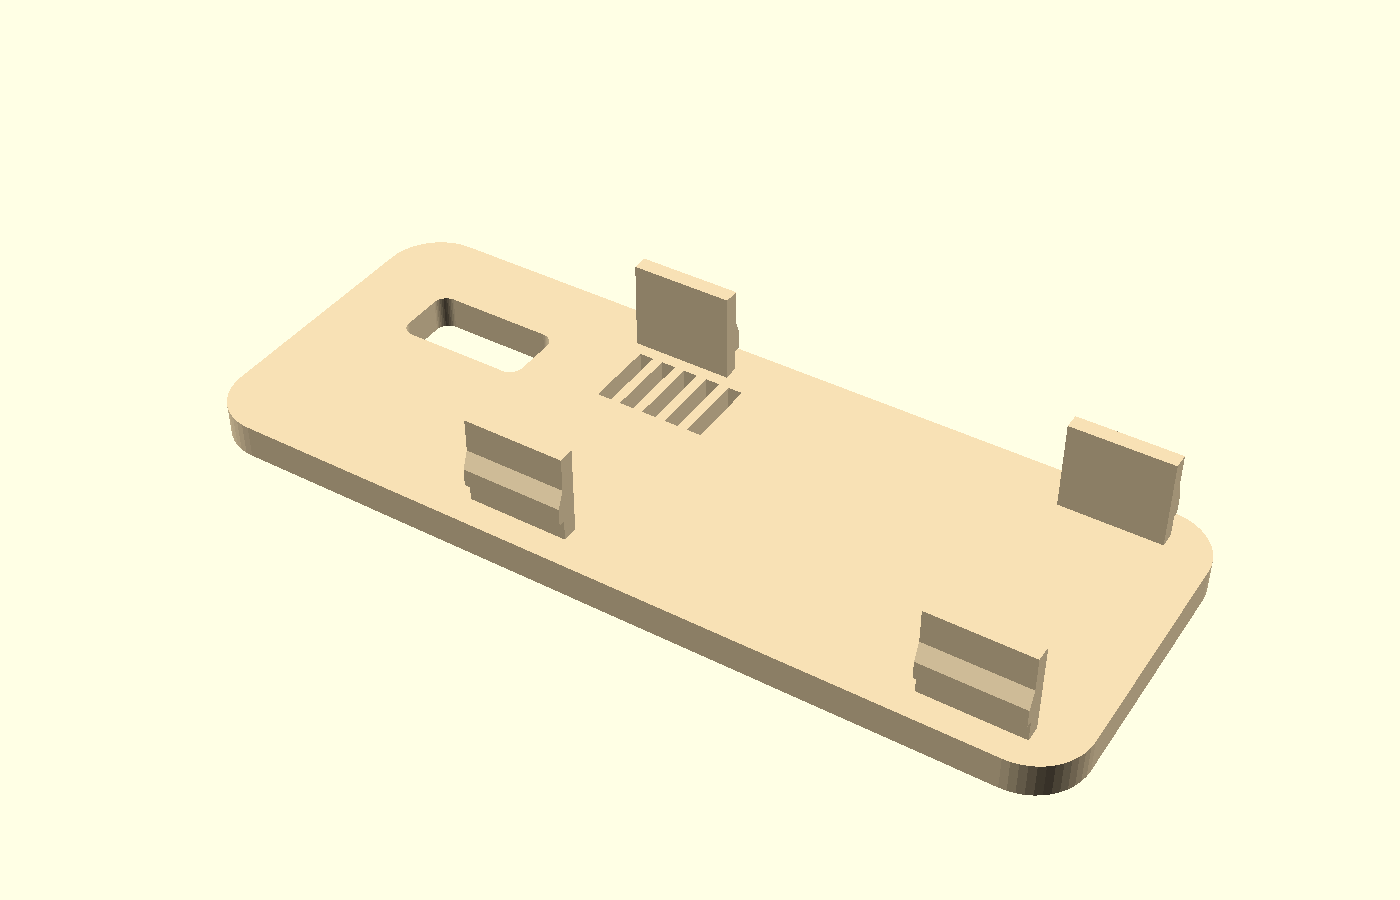
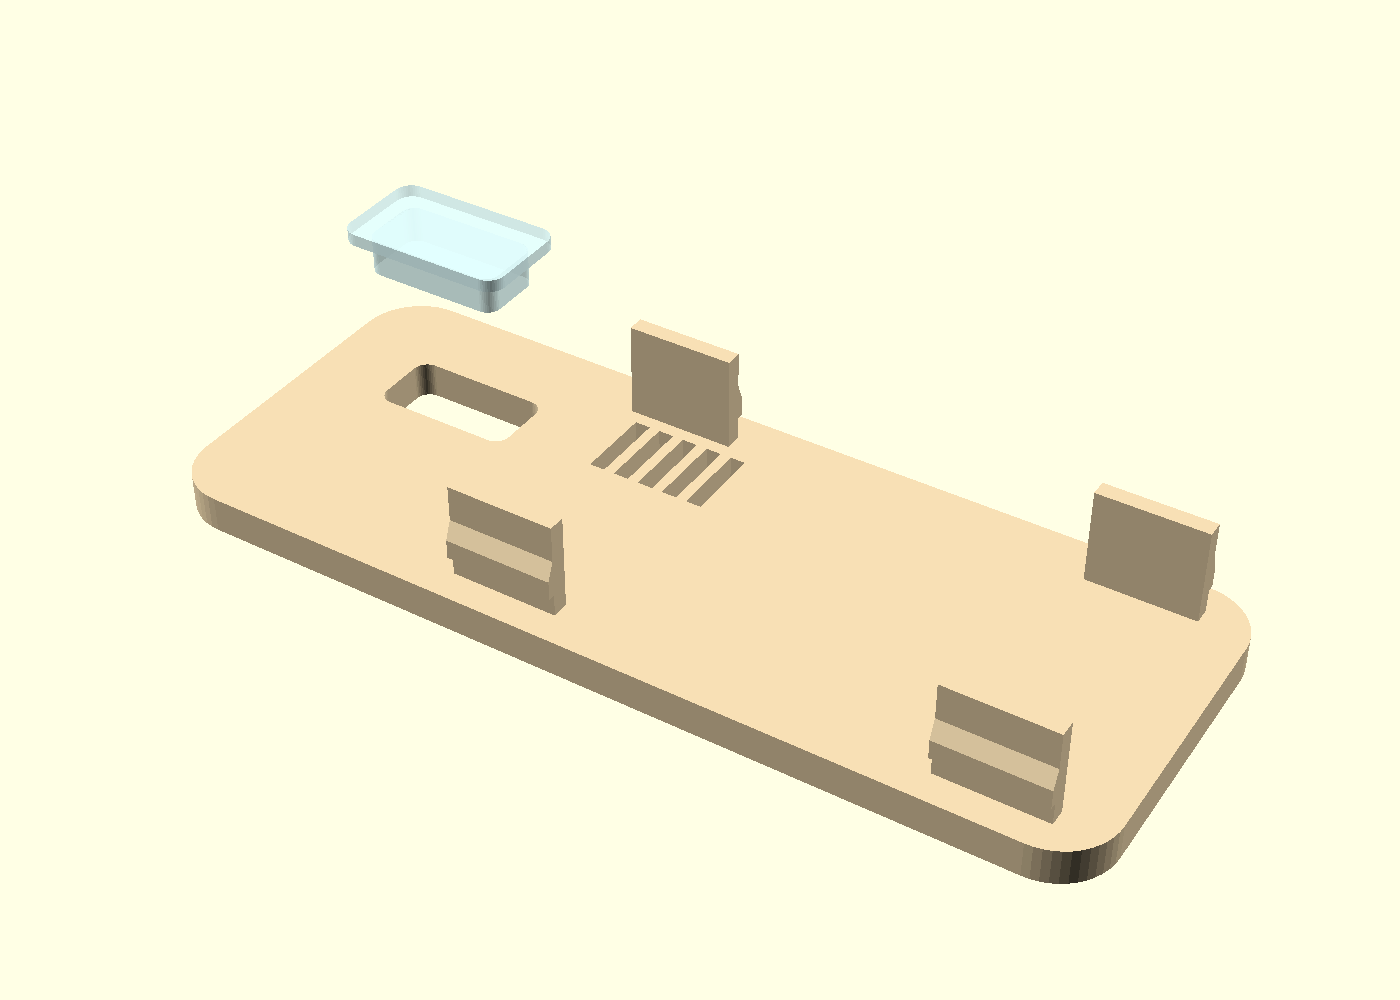
Enclosure: show the light guide with the lid
The lid view was the print orientation of the lid alone, so the one part
that gets printed in a different material was missing from it. New
view-only part lid_guide lifts the guide off its opening; part="lid" is
left alone because that one is the STL export.

diff --git a/fan-housing/README.md b/fan-housing/README.md
@@ -22,11 +22,17 @@ nur noch das Gehaeuse.
 | `stl/fan-controller-case-lid.stl` | cremefarbenes PETG | wie exportiert, Deckelflaeche unten, Zungen nach oben |
 | `stl/fan-controller-case-guide.stl` | transparentes PETG | wie exportiert |
 
-![Deckel in Drucklage](img/case-lid.png)
+![Deckel in Drucklage mit Lichtleiter](img/case-lid.png)
 
 Der Deckel in Drucklage — kopfueber, die vier Federzungen zeigen nach oben.
 An den beiden vorderen ist die Rastnase als Stufe zu erkennen; die
 Anschraegung darunter druckt die Zunge beim Aufsetzen von selbst ein.
+
+Der Lichtleiter ist abgehoben dargestellt und wird **getrennt gedruckt** —
+transparent, waehrend der Deckel cremefarben bleibt. Eingesetzt wird er von
+der Innenseite des Deckels, in dieser umgedrehten Lage also von oben. Sein
+Bund liegt danach an der Deckelunterseite an und haelt ihn gegen
+Herausfallen nach aussen.
 
 Alle drei sind bereits in Drucklage exportiert und brauchen **keine
 Stuetzen**. Der Deckel liegt kopfueber, damit die Sichtflaeche glatt vom
@@ -141,7 +147,8 @@ Tasche sass. Das Modell rechnet seine Quader selbst aus und gibt sie per
 
 Zum Ansehen: `part = "all"` zeigt den Zusammenbau mit angedeuteter
 Bestueckung, `part = "explode"` mit abgehobenem Deckel, `part = "closed"`
-das geschlossene Gehaeuse. `part = "latch"` schneidet eine 5 mm dicke
+das geschlossene Gehaeuse, `part = "lid_guide"` den Deckel in Drucklage mit
+abgehobenem Lichtleiter. `part = "latch"` schneidet eine 5 mm dicke
 Scheibe quer durch eine Rastung heraus und legt sie in den Ursprung — zum
 Beurteilen des Eingriffs in der OpenSCAD-Oberflaeche, wo man frei drehen
 kann. Als Standbild taugt das wenig: von innen verdeckt die Zunge genau
